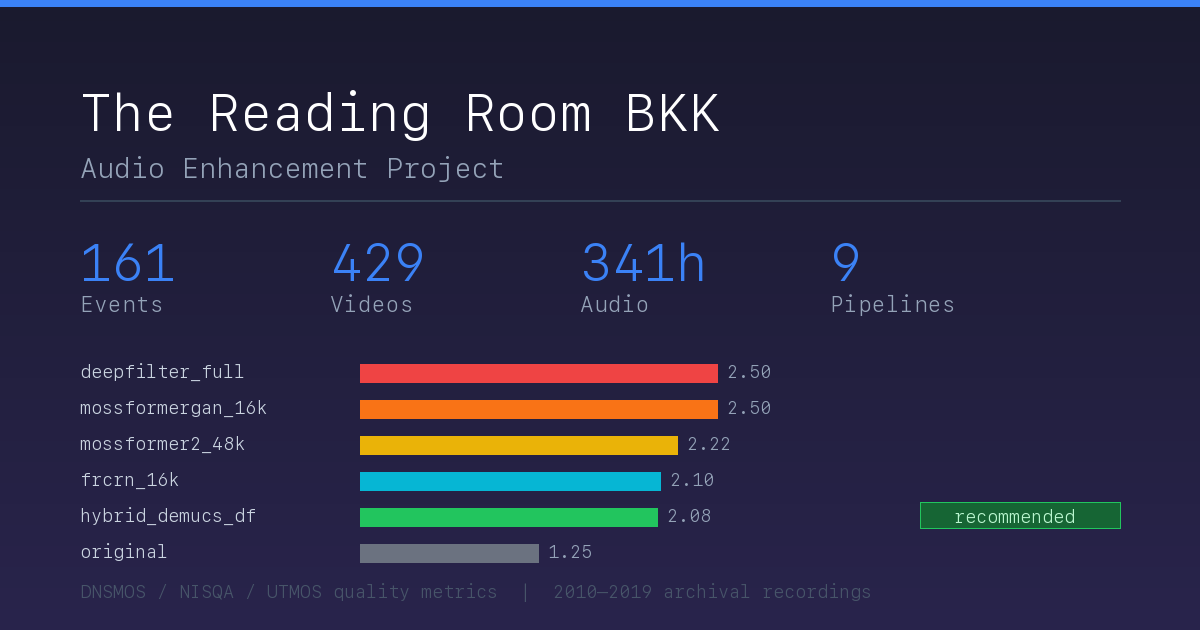
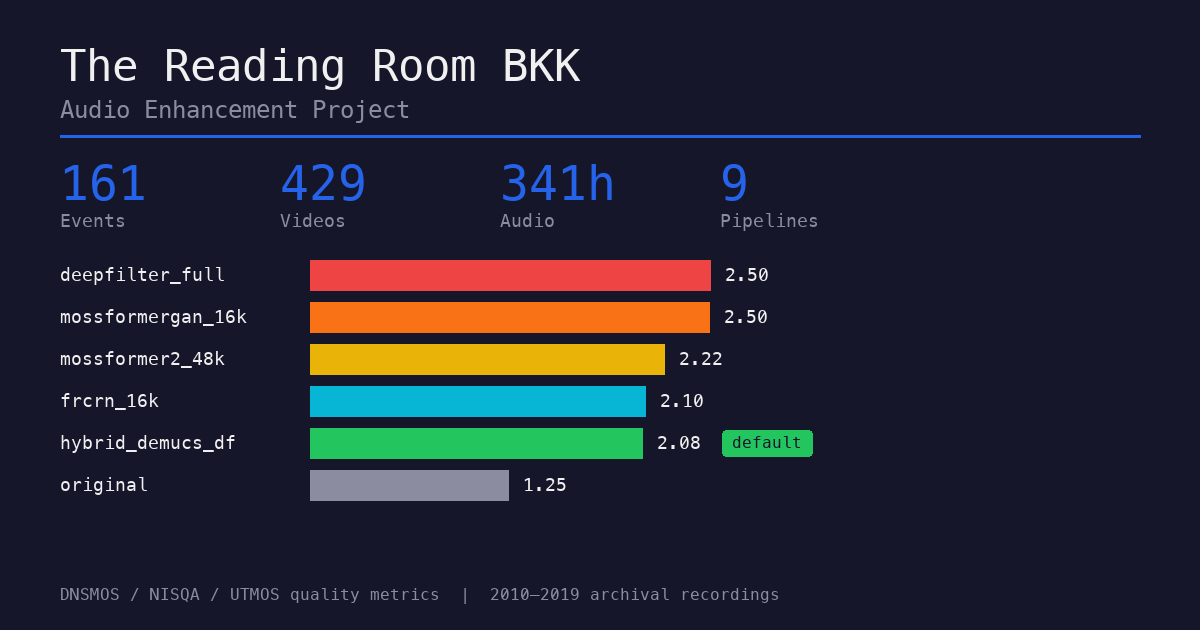
auto-generate OG image from benchmark results in publish command
Generate docs/og-image.png programmatically using Pillow with pipeline
scores, event counts, and default pipeline label from live data.
Runs as part of benchmark publish (analyze → export → preview → OG).

diff --git a/src/readingroom_audio/benchmark.py b/src/readingroom_audio/benchmark.py
@@ -2866,11 +2866,130 @@ function stopAllInCard(stopBtn) {
 
 # ── Phase: run-all ───────────────────────────────────────────────────
 
+def _generate_og_image(output_path: Path):
+    """Generate OG image (1200x630) from benchmark results."""
+    from collections import defaultdict
+
+    from PIL import Image, ImageDraw, ImageFont
+
+    results = _load_results()
+    if not results:
+        print("  No results for OG image, skipping.")
+        return
+
+    # Collect pipeline mean OVRL (only pipelines with >=80% coverage)
+    pipe_scores = defaultdict(list)
+    for sid, data in results.items():
+        for pipe, pdata in data.get("pipelines", {}).items():
+            ovrl = pdata.get("scores", {}).get("dnsmos_ovrl")
+            if ovrl is not None:
+                pipe_scores[pipe].append(ovrl)
+
+    n_total = len(results)
+    threshold = int(n_total * 0.8)
+    ranked = sorted(
+        [(p, sum(v) / len(v)) for p, v in pipe_scores.items() if len(v) >= threshold],
+        key=lambda x: x[1],
+        reverse=True,
+    )
+
+    n_pipelines = len(ranked)
+    default_pipe = "hybrid_demucs_df"
+
+    # --- Drawing ---
+    W, H = 1200, 630
+    bg = (22, 22, 42)
+    accent = (37, 99, 235)
+    white = (240, 240, 240)
+    muted = (140, 140, 160)
+    bar_colors = [
+        (239, 68, 68), (249, 115, 22), (234, 179, 8),
+        (6, 182, 212), (34, 197, 94), (168, 85, 247),
+        (236, 72, 153), (99, 102, 241), (156, 163, 175),
+    ]
+
+    img = Image.new("RGB", (W, H), bg)
+    draw = ImageDraw.Draw(img)
+
+    try:
+        title_font = ImageFont.truetype("/System/Library/Fonts/Menlo.ttc", 44)
+        subtitle_font = ImageFont.truetype("/System/Library/Fonts/Menlo.ttc", 24)
+        stat_font = ImageFont.truetype("/System/Library/Fonts/Menlo.ttc", 48)
+        label_font = ImageFont.truetype("/System/Library/Fonts/Menlo.ttc", 18)
+        small_font = ImageFont.truetype("/System/Library/Fonts/Menlo.ttc", 16)
+    except (OSError, IOError):
+        title_font = ImageFont.load_default()
+        subtitle_font = title_font
+        stat_font = title_font
+        label_font = title_font
+        small_font = title_font
+
+    # Title
+    draw.text((60, 40), "The Reading Room BKK", fill=white, font=title_font)
+    draw.text((60, 95), "Audio Enhancement Project", fill=muted, font=subtitle_font)
+    draw.rectangle([60, 135, W - 60, 137], fill=accent)
+
+    # Stats row
+    stats = [
+        (str(n_total), "Events"),
+        ("429", "Videos"),
+        ("341h", "Audio"),
+        (str(n_pipelines), "Pipelines"),
+    ]
+    stat_x = 60
+    for value, label in stats:
+        draw.text((stat_x, 155), value, fill=accent, font=stat_font)
+        draw.text((stat_x, 210), label, fill=muted, font=label_font)
+        stat_x += 220
+
+    # Bar chart — top 5 pipelines + original
+    show_pipes = [p for p in ranked if p[0] != "original"][:5]
+    original = next((p for p in ranked if p[0] == "original"), ("original", 1.0))
+    show_pipes.append(original)
+    max_score = max(s for _, s in show_pipes) if show_pipes else 3.0
+
+    bar_y = 260
+    bar_h = 30
+    bar_gap = 12
+    bar_left = 310
+    bar_max_w = 400
+
+    for i, (pipe_name, mean_ovrl) in enumerate(show_pipes):
+        y = bar_y + i * (bar_h + bar_gap)
+        color = bar_colors[i % len(bar_colors)] if pipe_name != "original" else muted
+
+        draw.text((60, y + 4), pipe_name, fill=white, font=label_font)
+        bar_w = int((mean_ovrl / max_score) * bar_max_w)
+        draw.rectangle([bar_left, y, bar_left + bar_w, y + bar_h], fill=color)
+        draw.text((bar_left + bar_w + 15, y + 4), f"{mean_ovrl:.2f}", fill=white, font=label_font)
+
+        if pipe_name == default_pipe:
+            tag_x = bar_left + bar_w + 80
+            draw.rounded_rectangle(
+                [tag_x, y + 2, tag_x + 90, y + bar_h - 2],
+                radius=4, fill=(34, 197, 94),
+            )
+            draw.text((tag_x + 10, y + 5), "default", fill=bg, font=small_font)
+
+    # Footer
+    draw.text(
+        (60, H - 45),
+        "DNSMOS / NISQA / UTMOS quality metrics  |  2010\u20132019 archival recordings",
+        fill=muted, font=small_font,
+    )
+
+    output_path.parent.mkdir(parents=True, exist_ok=True)
+    img.save(str(output_path), "PNG", optimize=True)
+    print(f"  OG image saved: {output_path}")
+
+
 def cmd_publish(output_dir: str | None = None, n_samples: int = 3):
-    """Regenerate all outputs: analyze → export → preview.
+    """Regenerate all outputs: analyze → export → preview → OG image.
 
     One-shot command to refresh docs after model improvements.
     """
+    docs_dir = Path(output_dir) if output_dir else (ROOT / "docs")
+
     print("=" * 70)
     print("PUBLISH: ANALYZE")
     print("=" * 70)
@@ -2879,14 +2998,19 @@ def cmd_publish(output_dir: str | None = None, n_samples: int = 3):
     print("\n" + "=" * 70)
     print("PUBLISH: EXPORT")
     print("=" * 70)
-    export_dir = str(Path(output_dir) / "benchmark-report") if output_dir else None
+    export_dir = str(docs_dir / "benchmark-report") if output_dir else None
     cmd_export(output_dir=export_dir, n_samples=n_samples)
 
     print("\n" + "=" * 70)
     print("PUBLISH: PREVIEW")
     print("=" * 70)
-    preview_dir = str(Path(output_dir) / "audio-preview") if output_dir else None
+    preview_dir = str(docs_dir / "audio-preview") if output_dir else None
     cmd_preview(output_dir=preview_dir)
+
+    print("\n" + "=" * 70)
+    print("PUBLISH: OG IMAGE")
+    print("=" * 70)
+    _generate_og_image(docs_dir / "og-image.png")
 
     print("\n" + "=" * 70)
     print("PUBLISH COMPLETE — docs/ ready for deployment")
